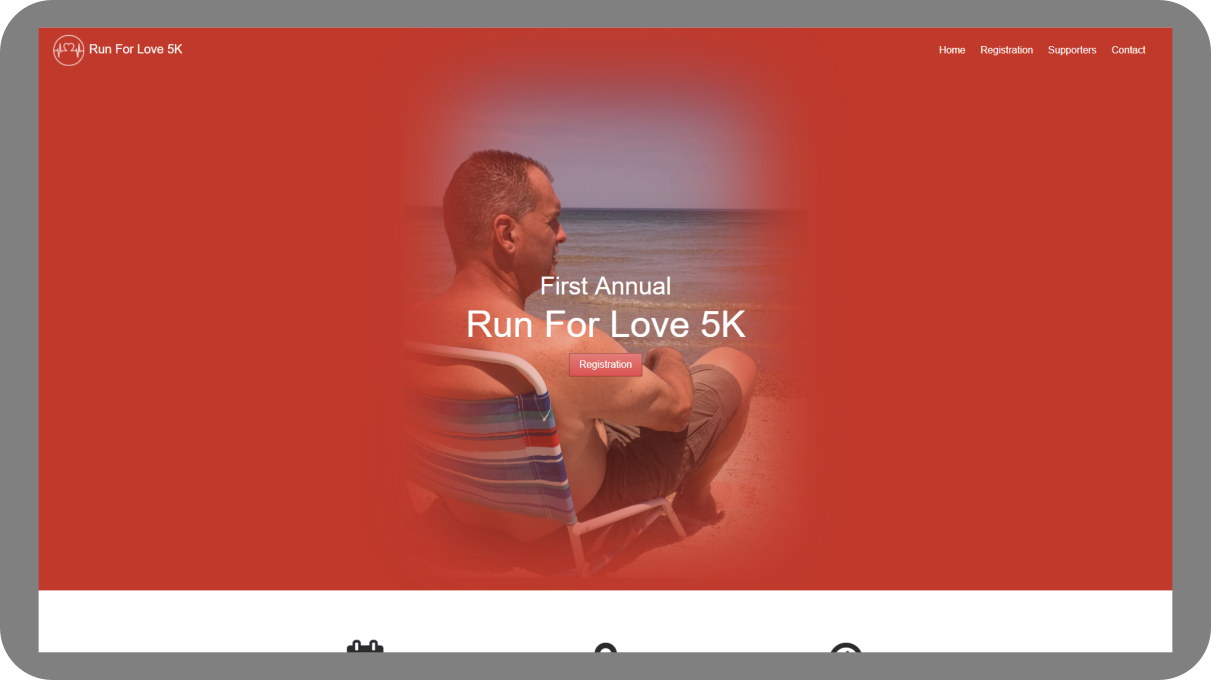
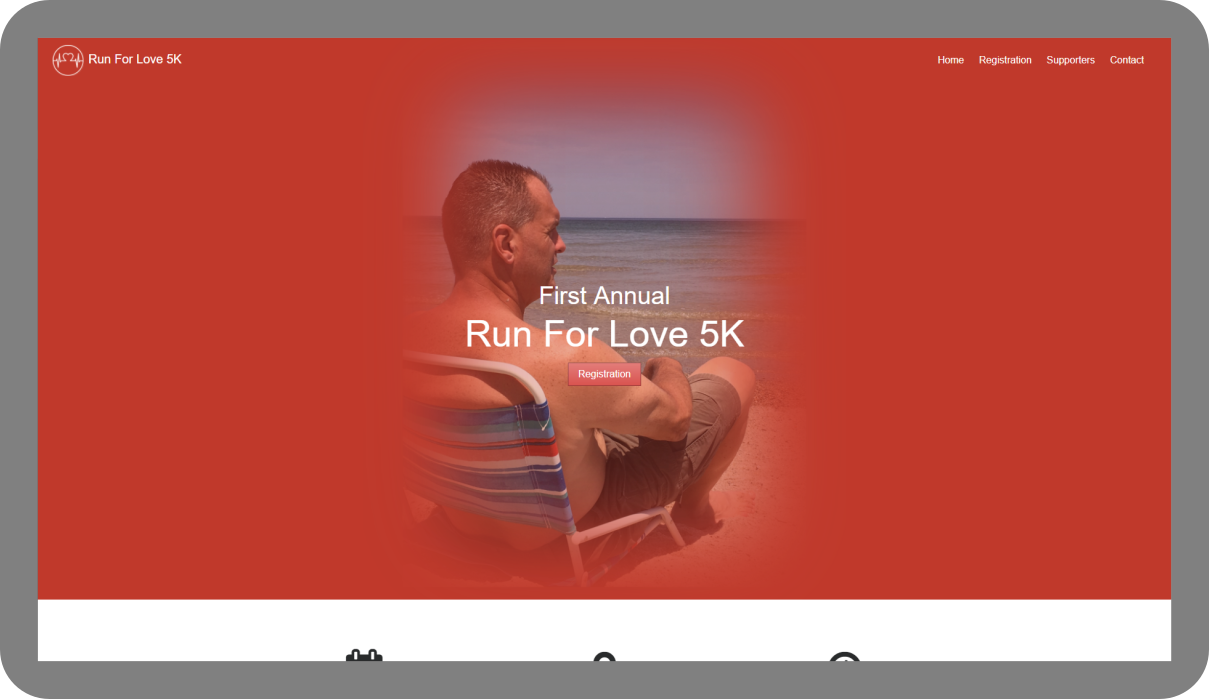
Full Outline
Finished the first run of the website. Has full outline to add projects as I create them

diff --git a/css/style.css b/css/style.css
@@ -21,7 +21,6 @@ html, body {
   align-items: center;
   justify-content: center;
   text-align: center;
-  margin-top: -130px;
   color: white;
 }
 
@@ -31,37 +30,6 @@ html, body {
 
 #header-text h2 {
   font-size: 40px;
-}
-
-.navbar {
-  height: 100px;
-  width: 100%;
-  background: none;
-}
-
-.navbar #menu {
-  display: inline-block;
-  list-style: none;
-  padding: 30px 70px 0 0;
-  position: absolute;
-  top: 0;
-  right: 0;
-  color: white;
-  font-size: 20px;
-}
-
-.navbar #menu li {
-  display: inline-block;
-  padding-right: 40px;
-}
-
-.navbar #menu li a {
-  text-decoration: none;
-  color: white;
-}
-
-.navbar #menu li a:hover {
-  color: gray;
 }
 
 #arrow-box {
@@ -127,6 +95,7 @@ html, body {
 /*** Contact ***/
 .contact {
   padding: 100px 20px;
+  margin: 0 auto;
   background: #2980b9;
   color: white;
 }
@@ -137,22 +106,37 @@ html, body {
   justify-content: center;
 }
 
-.contact h2 {
-  padding-bottom: 20px;
+.contact #contact-box {
+  width: 250px;
+  padding: 0 50px;
+  margin: auto;
+  display: block;
+  position: relative;
+  justify-content: center;
+}
+
+.contact h3 {
+  padding: 20px 0;
+  text-align: center;
 }
 
 .contact ul {
   list-style: none;
   text-decoration: none;
   padding: 0;
+  text-align: left;
+}
+
+.contact li {
+  padding: 5px 0;
 }
 
 .contact li a {
-  font-size: 25px;
+  font-size: 20px;
   color: white;
-  padding: 20px 0;
 }
 
 .contact li a:hover {
   color: grey;
+  text-decoration: none;
 }

diff --git a/index.html b/index.html
@@ -20,12 +20,6 @@
 
     <!-- Header -->
     <div class="header">
-      <nav class="navbar">
-        <ul id="menu">
-          <li><a href="./">About</a></li>
-          <li><a href="projects.html">Projects</a></li>
-        </ul>
-      </nav>
       <div id="header-text">
         <h1>Justin Benoit</h1>
         <br/>
@@ -78,12 +72,14 @@
        <div class="container">
          <div class="row">
            <div class="col-md-12">
-             <h3>Contact Me</h3>
-             <ul>
-               <li><a href="mailto:benoitjustinm@gmail.com" title="Email" target="_blank">Email</a></li>
-               <li><a href="https://www.linkedin.com/in/jmbenoit18/" target="_blank">LinkedIn</a></li>
-               <li><a href="https://github.com/JMBenoit" target="_blank">GitHub</a></li>
-           </div>
+             <div id="contact-box">
+               <h3>Contact Me</h3>
+               <ul>
+                 <li><a href="mailto:benoitjustinm@gmail.com" title="Email" target="_blank"><i class="fa fa-envelope fa-2x" aria-hidden="true"></i> Email</a></li>
+                 <li><a href="https://www.linkedin.com/in/jmbenoit18/" target="_blank"><i class="fa fa-linkedin fa-2x" aria-hidden="true"></i> LinkedIn</a></li>
+                 <li><a href="https://github.com/JMBenoit" target="_blank"><i class="fa fa-github fa-2x" aria-hidden="true"></i> GitHub</a></li>
+               </div>
+            </div>
          </div>
        </div>
     </div>
